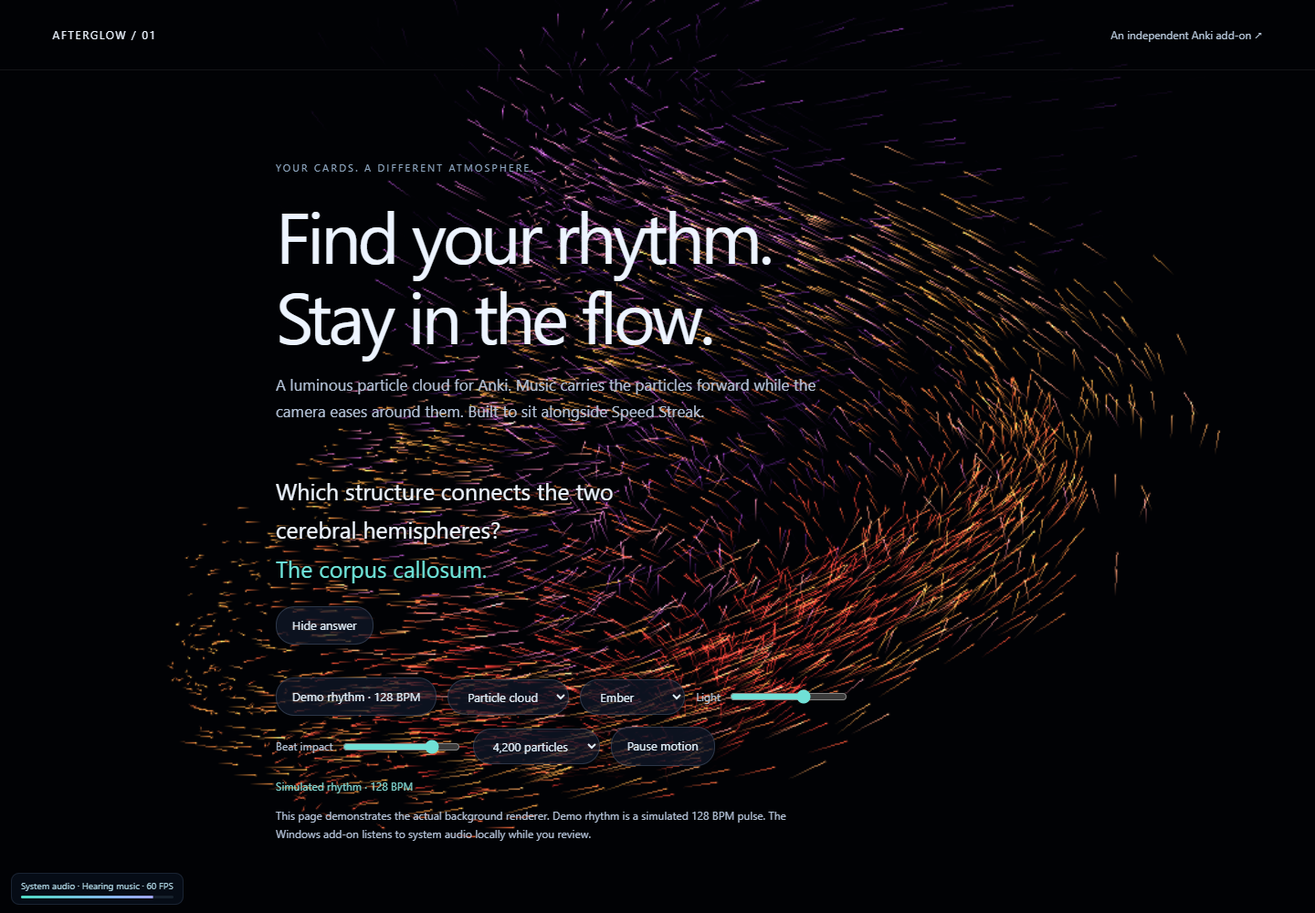
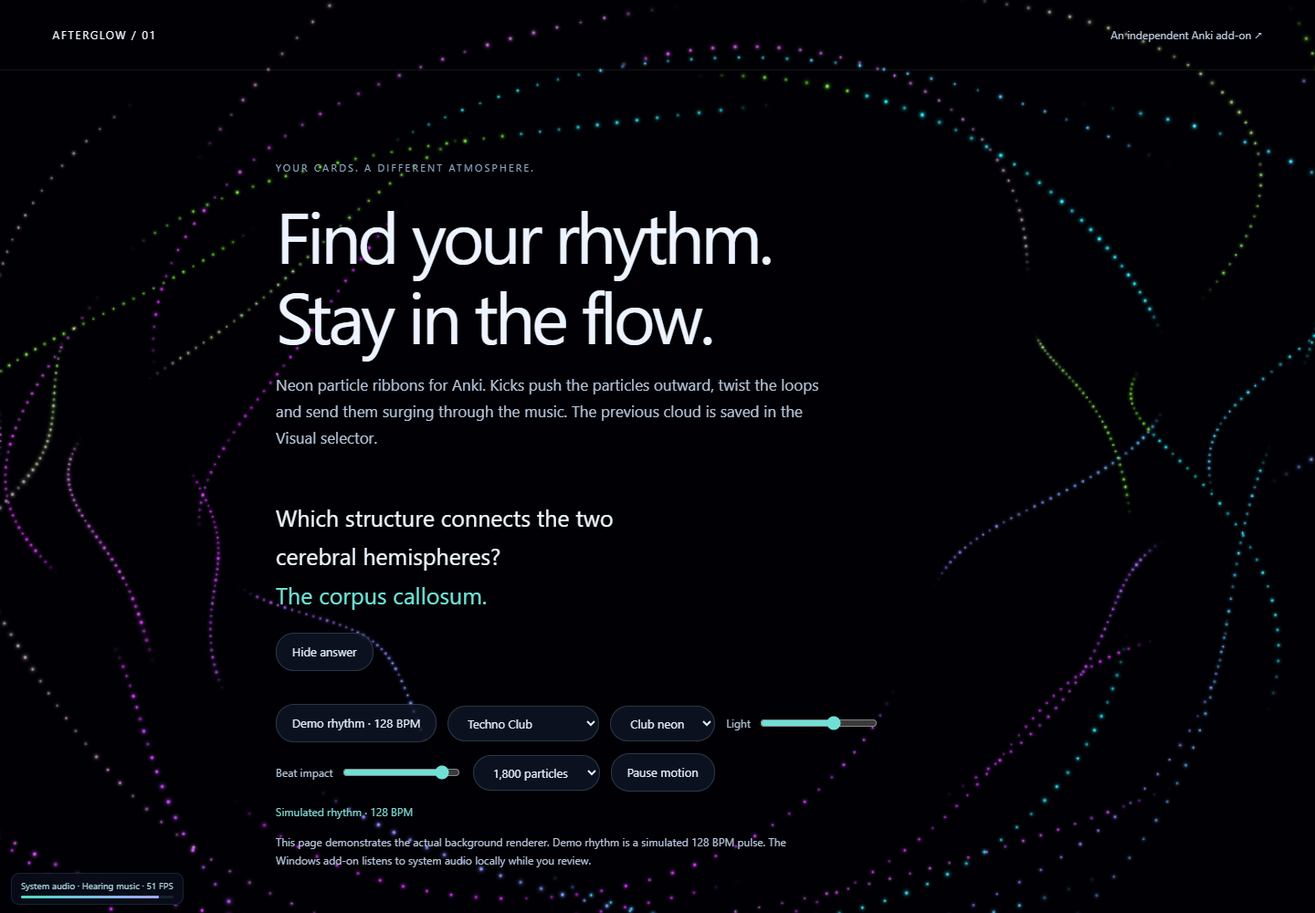
Add beat-driven Techno Club ribbons and preserve personal cloud preset

diff --git a/apps/anki-afterglow/web/club.js b/apps/anki-afterglow/web/club.js
@@ -1,0 +1,99 @@
+/* Original neon ribbon visual. One point-sprite draw, seeded geometry, no
+   textures or dependencies. The beat changes position as well as light. */
+(() => {
+  'use strict';
+  if(window.AfterglowClub)return;
+  const palettes={aurora:[[.05,.95,.85],[.45,.12,1.],[1.,.08,.6]],acid:[[.45,1.,.04],[.03,.9,.7],[1.,.25,.02]],ultraviolet:[[.12,.35,1.],[.6,.05,1.],[1.,.08,.65]],ember:[[1.,.12,.015],[1.,.65,.03],[.6,.05,1.]],neon:[[.02,.95,1.],[.85,.04,1.],[.4,1.,.04]]};
+  function seeds(count){
+    const data=new Float32Array(count*4);let seed=29173;
+    const random=()=>{seed=(Math.imul(seed,1664525)+1013904223)>>>0;return seed/4294967296;};
+    for(let i=0;i<count;i++)data.set([(i%240)/240,Math.floor(i/240),random(),random()],i*4);
+    return data;
+  }
+  const vertex=`precision highp float;
+attribute vec4 seed;
+uniform vec2 viewSize,worldSize,offset;
+uniform float time,beat,drive,density;uniform vec3 c0,c1,c2;
+varying mediump vec3 color;varying mediump float opacity;
+void main(){
+ float strand=seed.y,theta=seed.x*6.2831853;
+ float spin=time*.24+strand*.61;
+ float a=theta+spin;
+ float rip=sin(theta*3.+strand*1.4+time*.45);
+ float radius=.56+mod(strand,4.)*.15+.075*rip;
+ // Beats deform the ribbon and throw it outward, rather than just illuminating it.
+ float kick=beat*(.28+.17*(.5+.5*sin(theta*4.-strand*.8)));
+ radius+=kick;
+ a+=beat*.26*sin(theta*2.+strand);
+ vec3 p=vec3(cos(a)*radius,sin(a)*radius,
+   .50*sin(theta*2.+strand*.77+time*.25)+.14*(mod(strand,3.)-1.)+beat*.38);
+ p.xy+=vec2(.10*sin(time*.13+strand),.08*cos(time*.17+strand));
+ float depth=3.2-p.z,zoom=2.8/depth;
+ vec2 pixel=worldSize*.5+vec2(p.x*worldSize.x*.44,p.y*worldSize.y*.44)*zoom;
+ vec2 local=(pixel-offset)/viewSize;
+ gl_Position=vec4(local.x*2.-1.,1.-local.y*2.,0.,1.);
+ float hue=fract(seed.x+strand*.17+time*.018);
+ color=mix(c0,c1,smoothstep(0.,.5,hue));color=mix(color,c2,smoothstep(.5,1.,hue));
+ color=mix(color,vec3(.8,.94,1.),beat*.16);
+ // Gaps keep the ribbons airy, like beads in the supplied reference.
+ float gap=smoothstep(.10,.36,sin(theta*5.+strand+time*.3)*.5+.5);
+ opacity=gap*(.40+seed.w*.45)*(.6+drive*.25+beat*.75);
+ gl_PointSize=clamp((4.+seed.z*4.+beat*5.)*zoom*density,1.,17.);
+}`;
+  const fragment=`precision mediump float;
+uniform float intensity;varying mediump vec3 color;varying mediump float opacity;
+void main(){vec2 p=gl_PointCoord*2.-1.;float r=dot(p,p);if(r>1.)discard;
+ float core=exp(-r*16.),glow=pow(1.-r,2.)*.23;
+ gl_FragColor=vec4(color*(.85+core*.4),(core+glow)*opacity*intensity);
+}`;
+  function gpu(canvas,gl){
+    let program,buffer,count=0,loc={},alive=true,attribute;
+    function init(){
+      const compile=(type,source)=>{const s=gl.createShader(type);gl.shaderSource(s,source);gl.compileShader(s);if(!gl.getShaderParameter(s,gl.COMPILE_STATUS))throw Error(gl.getShaderInfoLog(s));return s;};
+      const vs=compile(gl.VERTEX_SHADER,vertex),fs=compile(gl.FRAGMENT_SHADER,fragment);
+      program=gl.createProgram();gl.attachShader(program,vs);gl.attachShader(program,fs);gl.linkProgram(program);gl.deleteShader(vs);gl.deleteShader(fs);
+      if(!gl.getProgramParameter(program,gl.LINK_STATUS))throw Error(gl.getProgramInfoLog(program));
+      for(const key of ['viewSize','worldSize','offset','time','beat','drive','density','intensity','c0','c1','c2'])loc[key]=gl.getUniformLocation(program,key);
+      attribute=gl.getAttribLocation(program,'seed');buffer=gl.createBuffer();count=0;alive=true;
+    }
+    init();const ext=gl.getExtension('WEBGL_debug_renderer_info');
+    canvas.addEventListener('webglcontextlost',e=>{e.preventDefault();alive=false;});
+    canvas.addEventListener('webglcontextrestored',()=>{try{init();}catch(_){alive=false;}});
+    return {canvas,kind:'webgl',get particles(){return count;},info:ext?gl.getParameter(ext.UNMASKED_RENDERER_WEBGL):'WebGL',dispose(){gl.getExtension('WEBGL_lose_context')?.loseContext();},draw(s){
+      if(!alive)return;
+      const desired=Math.round(Math.max(600,Math.min(s.quality?4200:1200,s.particleCount??1800)));
+      gl.useProgram(program);gl.bindBuffer(gl.ARRAY_BUFFER,buffer);
+      if(count!==desired){count=desired;gl.bufferData(gl.ARRAY_BUFFER,seeds(count),gl.STATIC_DRAW);}
+      gl.enableVertexAttribArray(attribute);gl.vertexAttribPointer(attribute,4,gl.FLOAT,false,16,0);
+      gl.viewport(0,0,canvas.width,canvas.height);gl.clearColor(.003,.004,.018,1);gl.clear(gl.COLOR_BUFFER_BIT);
+      gl.enable(gl.BLEND);gl.blendFunc(gl.SRC_ALPHA,gl.ONE);
+      gl.uniform2f(loc.viewSize,s.vw,s.vh);gl.uniform2f(loc.worldSize,s.w,s.h);gl.uniform2f(loc.offset,s.x,s.y);
+      gl.uniform1f(loc.time,s.clubTime??s.time);gl.uniform1f(loc.beat,Math.min(1,s.clubBeat??s.pulse??0));
+      gl.uniform1f(loc.drive,s.level||0);gl.uniform1f(loc.density,canvas.width/s.vw);gl.uniform1f(loc.intensity,s.intensity*1.4);
+      const colors=palettes[s.palette]||palettes.neon;for(let i=0;i<3;i++)gl.uniform3fv(loc['c'+i],colors[i]);
+      gl.drawArrays(gl.POINTS,0,count);
+    }};
+  }
+  function cpu(canvas){
+    const ctx=canvas.getContext('2d',{alpha:false});let count=0;
+    return {canvas,kind:'canvas',info:'Simplified neon ribbons',get particles(){return count;},draw(s){
+      const sx=canvas.width/s.vw,sy=canvas.height/s.vh,t=s.clubTime??s.time,k=Math.min(1,s.clubBeat??s.pulse??0),colors=palettes[s.palette]||palettes.neon;
+      count=Math.min(650,Math.max(200,Math.round((s.particleCount??1800)/4)));
+      ctx.setTransform(sx,0,0,sy,-s.x*sx,-s.y*sy);ctx.fillStyle='#010105';ctx.fillRect(0,0,s.w,s.h);ctx.globalCompositeOperation='screen';
+      for(let i=0;i<count;i++){
+        const strand=Math.floor(i/90),theta=(i%90)/90*Math.PI*2,a=theta+t*.24+strand*.61+k*.26*Math.sin(theta*2+strand);
+        const radius=.56+(strand%4)*.15+.075*Math.sin(theta*3+strand*1.4+t*.45)+k*(.28+.17*(.5+.5*Math.sin(theta*4-strand*.8)));
+        const zoom=2.8/(3.2-.5*Math.sin(theta*2+strand*.77+t*.25)-k*.38);
+        const color=colors[Math.floor((i/90+t*.018)%3)];ctx.fillStyle=`rgb(${color.map(v=>Math.round(v*255)).join(',')})`;
+        ctx.globalAlpha=Math.min(1,s.intensity*(.35+k*.65))*Math.max(0,Math.sin(theta*5+strand+t*.3)*.5+.5);
+        ctx.beginPath();ctx.arc(s.w*.5+Math.cos(a)*radius*s.w*.44*zoom,s.h*.5+Math.sin(a)*radius*s.h*.44*zoom,(2+k*2)*zoom,0,Math.PI*2);ctx.fill();
+      }
+      ctx.globalAlpha=1;ctx.globalCompositeOperation='source-over';
+    }};
+  }
+  window.AfterglowClub=canvas=>{
+    try{const gl=canvas.getContext('webgl',{alpha:false,depth:false,stencil:false,antialias:false,preserveDrawingBuffer:false,powerPreference:'high-performance'});if(gl)return gpu(canvas,gl);}
+    catch(e){console.warn('Afterglow club fallback:',String(e));const next=canvas.cloneNode();canvas.replaceWith(next);canvas=next;}
+    return cpu(canvas);
+  };
+})();

diff --git a/apps/anki-afterglow/index.html b/apps/anki-afterglow/index.html
@@ -3,13 +3,13 @@
 <link rel="stylesheet" href="web/afterglow.css"><style>
 *{box-sizing:border-box}body{margin:0;color:#edf4ff;font:17px/1.7 system-ui,sans-serif}header{display:flex;justify-content:space-between;align-items:center;padding:28px 4vw;border-bottom:1px solid #ffffff12;font-size:12px;letter-spacing:.14em}header a{color:#b9cadc;text-decoration:none;letter-spacing:0}main{max-width:900px;margin:9vh auto;padding:0 32px}small{font-size:11px;letter-spacing:.2em;color:#8fa8c2}h1{font-size:clamp(40px,6vw,78px);font-weight:400;line-height:1.12;letter-spacing:-.05em;margin:18px 0}p{max-width:610px;color:#b5c4d9}#qa{padding:35px 0 20px;font-size:25px;line-height:1.7;max-width:700px}.cloze{color:#6fe5db}button,select,input{accent-color:#70e0d6}button,select{background:#101729b8;color:#dfedf7;border:1px solid #a9c9ed33;border-radius:20px;padding:9px 17px;font:inherit;font-size:13px;cursor:pointer}button:hover{border-color:#86eee3}nav{display:flex;gap:12px;align-items:center;flex-wrap:wrap;margin-top:36px}label{display:flex;gap:8px;align-items:center;font-size:12px;color:#b0c2d5}footer{margin:9vh 4vw 30px;font-size:12px;color:#8ba2bd;display:flex;justify-content:space-between;gap:20px}a{color:#8ce1dc}#answer{display:none}#status{font-size:12px;color:#80d7d1}.note{font-size:12px;max-width:600px}
 </style></head><body><header><span>AFTERGLOW / 01</span><a href="https://github.com/starfox1230/The-Library/tree/main/apps/anki-afterglow">An independent Anki add-on ↗</a></header>
-<main><small>YOUR CARDS. A DIFFERENT ATMOSPHERE.</small><h1>Find your rhythm.<br>Stay in the flow.</h1><p>A luminous particle cloud for Anki. Music carries the particles forward while the camera eases around them. Built to sit alongside Speed Streak.</p>
+<main><small>YOUR CARDS. A DIFFERENT ATMOSPHERE.</small><h1>Find your rhythm.<br>Stay in the flow.</h1><p>Neon particle ribbons for Anki. Kicks push the particles outward, twist the loops and send them surging through the music. The previous cloud is saved in the Visual selector.</p>
 <div id="qa"><div>Which structure connects the two<br>cerebral hemispheres?</div><div id="answer"><span class="cloze">The corpus callosum.</span></div></div>
 <button id="reveal">Reveal answer</button>
-<nav><button id="beat">Demo rhythm · Off</button><select id="visual" aria-label="Visual"><option value="particles">Particle cloud</option><option value="liquid">Liquid wall</option></select><select id="palette" aria-label="Palette"><option value="aurora">Aurora</option><option value="acid">Acid</option><option value="ultraviolet">Ultraviolet</option><option value="ember">Ember</option></select><label>Light <input id="light" type="range" min="0" max="100" value="65"></label><label>Beat impact <input id="impact" type="range" min="0" max="100" value="80"></label><select id="particles" aria-label="Particle count"><option value="1800">1,800 particles</option><option value="4200" selected>4,200 particles</option><option value="7000">7,000 particles</option></select><button id="motion">Pause motion</button></nav><p id="status">Ambient preview · no audio capture in this browser</p><p class="note">This page demonstrates the actual background renderer. Demo rhythm is a simulated 128 BPM pulse. The Windows add-on listens to system audio locally while you review.</p></main>
+<nav><button id="beat">Demo rhythm · Off</button><select id="visual" aria-label="Visual"><option value="club">Techno Club</option><option value="particles">Particle cloud · v0.5</option><option value="liquid">Liquid wall</option></select><select id="palette" aria-label="Palette"><option value="neon">Club neon</option><option value="aurora">Aurora</option><option value="acid">Acid</option><option value="ultraviolet">Ultraviolet</option><option value="ember">Ember</option></select><label>Light <input id="light" type="range" min="0" max="100" value="65"></label><label>Beat impact <input id="impact" type="range" min="0" max="100" value="90"></label><select id="particles" aria-label="Particle count"><option value="1800" selected>1,800 particles</option><option value="4200">4,200 particles</option><option value="7000">7,000 particles</option></select><button id="motion">Pause motion</button></nav><p id="status">Ambient preview · no audio capture in this browser</p><p class="note">This page demonstrates the actual background renderer. Demo rhythm is a simulated 128 BPM pulse. The Windows add-on listens to system audio locally while you review.</p></main>
 <footer><span>Local audio. Floating text. Room to focus.</span><a href="README.md">Installation & details ↗</a></footer>
-<script src="web/liquid.js"></script><script src="web/particles.js"></script><script src="web/afterglow.js"></script><script>
-let cfg={enabled:true,intensity:65,motion:55,contrast:70,quality:1,palette:'aurora',clear_backgrounds:true},demo=false;
+<script src="web/liquid.js"></script><script src="web/particles.js"></script><script src="web/club.js"></script><script src="web/afterglow.js"></script><script>
+let cfg={enabled:true,intensity:65,motion:55,contrast:70,quality:1,palette:'neon',impact:90,particle_count:1800,visual:'club',clear_backgrounds:true},demo=false;
 const origin=performance.now()/1000,period=60/128;
 const previewLoop=setInterval(()=>{const t=performance.now()/1000-origin;Afterglow.update({config:cfg,energy:demo?.035+.025*Math.exp(-(((t%period)/.07)**2)):0,bass:demo?.04:0,hit_id:demo?Math.floor(t/period)+1:0,confidence:demo?1:0,period:demo?period:0,next_in:period-t%period});},33);
 document.getElementById('beat').onclick=e=>{demo=!demo;e.target.textContent='Demo rhythm · '+(demo?'128 BPM':'Off');document.getElementById('status').textContent=demo?'Simulated rhythm · 128 BPM':'Ambient preview · no audio capture in this browser';};

diff --git a/apps/anki-afterglow/standalone.html b/apps/anki-afterglow/standalone.html
@@ -1,8 +1,8 @@
 <!doctype html><html><head><meta charset="utf-8"><meta name="viewport" content="width=device-width,initial-scale=1"><title>Afterglow · Standalone comparison</title><link rel="stylesheet" href="web/afterglow.css"><style>
 body{margin:0;color:#dfedff;font:12px system-ui}#controls{position:fixed;right:15px;top:15px;padding:14px;background:#070c1cd9;border:1px solid #60708755;border-radius:12px;max-width:350px}p{color:#9db2c8;line-height:1.6}button,select{background:#192338;color:#e2f0ff;border:1px solid #657d9855;border-radius:7px;padding:7px;margin-right:5px;cursor:pointer}#performance{white-space:pre-line;font-variant-numeric:tabular-nums}
-</style></head><body><section id="controls"><b>AFTERGLOW · STANDALONE</b><p>Real system audio, rendered outside Anki. Compare the motion and frame rate while Anki is also open.</p><select id="visual"><option value="particles">Particle cloud</option><option value="liquid">Liquid wall</option></select><select id="quality"><option value="1">Smooth</option><option value="0">Economy</option></select><p id="performance">Starting audio…</p><button id="fullscreen">Fullscreen</button><button id="hide">Hide controls (H)</button><button id="stop">Stop</button></section>
-<script src="web/liquid.js"></script><script src="web/particles.js"></script><script src="web/afterglow.js"></script><script>
-const config={enabled:true,motion:55,intensity:80,contrast:70,quality:1,palette:'ember',impact:65,show_meter:true,visual:'particles'};let stopped=false;
+</style></head><body><section id="controls"><b>AFTERGLOW · STANDALONE</b><p>Real system audio, rendered outside Anki. Compare the motion and frame rate while Anki is also open.</p><select id="visual"><option value="club">Techno Club</option><option value="particles">Particle cloud · v0.5</option><option value="liquid">Liquid wall</option></select><select id="quality"><option value="1">Smooth</option><option value="0">Economy</option></select><p id="performance">Starting audio…</p><button id="fullscreen">Fullscreen</button><button id="hide">Hide controls (H)</button><button id="stop">Stop</button></section>
+<script src="web/liquid.js"></script><script src="web/particles.js"></script><script src="web/club.js"></script><script src="web/afterglow.js"></script><script>
+const config={enabled:true,motion:55,intensity:80,contrast:70,quality:1,palette:'neon',impact:90,particle_count:1800,show_meter:true,visual:'club'};let stopped=false;
 async function poll(){if(stopped)return;try{const response=await fetch('/state');if(!response.ok)throw Error('Audio service unavailable');const state=await response.json();Afterglow.update({...state,config,primary:true});const m=Afterglow.metrics();document.getElementById('performance').textContent=Math.round(m.fps)+' FPS · p95 '+m.p95_ms.toFixed(1)+' ms\n'+m.device+'\n'+(state.device||state.status);}catch(e){document.getElementById('performance').textContent=e.message;}setTimeout(poll,40);}poll();
 document.getElementById('visual').onchange=e=>config.visual=e.target.value;
 document.getElementById('quality').onchange=e=>config.quality=+e.target.value;

diff --git a/apps/anki-afterglow/web/afterglow.js b/apps/anki-afterglow/web/afterglow.js
@@ -13,7 +13,7 @@
   let dirty = true, configKey = '';
   let surface=null, received=0, lastHit=0, attack=0, previousBass=0, lastAttack=-1000;
   let hud, meter, caption, meterTick=0;
-  let camera=0,clocks=Array(8).fill(0),clockMotion=55;
+  let camera=0,clocks=Array(8).fill(0),clockMotion=55,clubTime=0,clubBeat=0;
   const timings=[];let drawCost=0,drawCount=0,lastScene=null;
   // Synchronous readback is only for QA; normal frames use disposable GPU buffers.
   function paint(){if(visual&&lastScene&&!decorationOnly)visual.draw(lastScene);}
@@ -97,12 +97,16 @@
       clocks=state.particle_phases?state.particle_phases.map((p,i)=>{const target=(p+age*(state.particle_rates?.[i]??.1))*config.motion/55;return resync?target:Math.max(clocks[i],target);}):clocks.map((p,i)=>p+dt*(.1+musicLevel*.65+pulse*(i<3?1.8:.85))*config.motion/55);
       if(state.camera_phase!==undefined){const target=(state.camera_phase+age*(state.camera_rate||0))*config.motion/55;camera=resync?target:Math.max(camera,target);}
       else camera+=dt*(.025+pulse*.30)*config.motion/55;
+      const clubTarget=Math.min(1,pulse*1.4);
+      clubBeat+=(clubTarget-clubBeat)*(1-Math.exp(-dt*(clubTarget>clubBeat?35:9)));
+      if(state.club_time!==undefined){const target=(state.club_time+age*(state.club_rate||0))*config.motion/55;clubTime=resync?target:Math.max(clubTime,target);}
+      else clubTime+=dt*(.12+musicLevel*.5+clubBeat*3.8)*config.motion/55;
     }
     lastScene={w:surface?.width||innerWidth,h:surface?.height||innerHeight,
       vw:surface?.view_width||innerWidth,vh:surface?.view_height||innerHeight,
       x:surface?.x||0,y:surface?.y||0,time,intensity:config.intensity/100,
       palette:config.palette,level:moving?musicLevel:0,bass:moving?musicBass*config.impact/100:0,
-      pulse:moving?pulse:0,quality:config.quality,particleCount:config.particle_count??4200,clocks,camera};
+      pulse:moving?pulse:0,clubBeat:moving?clubBeat:0,clubTime,quality:config.quality,particleCount:config.particle_count??4200,clocks,camera};
     visual.draw(lastScene);
     timings.push(ms);if(timings.length>120)timings.shift();drawCost+=performance.now()-started;drawCount++;
     if(moving)raf=requestAnimationFrame(frame);
@@ -127,8 +131,8 @@
         visual?.dispose?.();visual=null;
         cancelAnimationFrame(raf);raf=0;
         const next=canvas.cloneNode();canvas.replaceWith(next);canvas=next;
-        currentVisual=config.visual==='liquid'?'liquid':'particles';
-        if(!decorationOnly){visual=(currentVisual==='liquid'?window.AfterglowLiquid:window.AfterglowParticles)(canvas);canvas=visual.canvas;}
+        currentVisual=['liquid','club'].includes(config.visual)?config.visual:'particles';
+        if(!decorationOnly){visual=({liquid:window.AfterglowLiquid,club:window.AfterglowClub,particles:window.AfterglowParticles}[currentVisual])(canvas);canvas=visual.canvas;}
         mount();resize();
         timings.length=0;drawCost=drawCount=0;
       }

diff --git a/apps/anki-afterglow/__init__.py b/apps/anki-afterglow/__init__.py
@@ -53,7 +53,7 @@ class Afterglow:
         self.decoration_updates = {}
         self.decorated = []
         css = (ROOT / 'web/afterglow.css').read_text(encoding='utf-8')
-        js = '\n'.join((ROOT / ('web/'+name)).read_text(encoding='utf-8') for name in ('liquid.js','particles.js','afterglow.js'))
+        js = '\n'.join((ROOT / ('web/'+name)).read_text(encoding='utf-8') for name in ('liquid.js','particles.js','club.js','afterglow.js'))
         self.inject_script = '(function(){if(window.Afterglow)return;const s=document.createElement("style");s.textContent=' + json.dumps(css) + ';document.head.append(s);' + js + '})();'
         self.action = QAction("Afterglow — Music background…", mw)
         self.action.triggered.connect(self.settings)
@@ -96,6 +96,7 @@ class Afterglow:
             content.css.append(base + "/afterglow.css")
             content.js.append(base + "/liquid.js")
             content.js.append(base + "/particles.js")
+            content.js.append(base + "/club.js")
             content.js.append(base + "/afterglow.js")
 
     def fullscreen(self):
@@ -301,17 +302,21 @@ class Afterglow:
             slider.valueChanged.connect(lambda value, k=key, l=value_label, title=label: (l.setText(f"{title}: {value}"), save(k, value)))
             form.addRow(value_label, slider)
         palette = QComboBox()
-        for title, value in [("Aurora · cyan / violet / rose", "aurora"), ("Acid · lime / teal / amber", "acid"), ("Ultraviolet · purple / blue / pink", "ultraviolet"), ('Ember · coral / gold / violet','ember')]:
+        for title, value in [("Club neon · cyan / magenta / lime", "neon"),("Aurora · cyan / violet / rose", "aurora"), ("Acid · lime / teal / amber", "acid"), ("Ultraviolet · purple / blue / pink", "ultraviolet"), ('Ember · coral / gold / violet','ember')]:
             palette.addItem(title, value)
         palette.setCurrentIndex(max(0, palette.findData(self.config["palette"])))
         palette.currentIndexChanged.connect(lambda _: save("palette", palette.currentData()))
         form.addRow("Palette", palette)
         visual=QComboBox()
+        visual.addItem('Techno Club · beat-driven neon ribbons','club')
         visual.addItem('Particle cloud','particles')
         visual.addItem('Liquid wall','liquid')
         visual.setCurrentIndex(max(0,visual.findData(self.config['visual'])))
         visual.currentIndexChanged.connect(lambda _:save('visual',visual.currentData()))
         form.addRow('Visual',visual)
+        restore=QPushButton('Restore saved v0.5 Particle Cloud look')
+        restore.clicked.connect(lambda: (self.restore_cloud(),dialog.accept()))
+        form.addRow(restore)
         quality = QComboBox()
         quality.addItems(["Economy · 30 FPS", "Smooth · display refresh rate"])
         quality.setCurrentIndex(int(self.config["quality"]))
@@ -337,6 +342,16 @@ class Afterglow:
         dialog.exec()
         self.status_label = None
         self.meter = None
+
+    def restore_cloud(self):
+        saved=ROOT/'user_files/particle-cloud-v0.5.json'
+        if not saved.exists():saved=ROOT/'cloud-v0.5.json'
+        values=json.loads(saved.read_text(encoding='utf-8-sig'))
+        for key in ('intensity','motion','contrast','quality','palette','impact','particle_count'):
+            if key in values:self.config[key]=values[key]
+        self.config['visual']='particles'
+        mw.addonManager.writeConfig(__name__,self.config)
+        self.tick()
 
 
 controller = Afterglow()

diff --git a/apps/anki-afterglow/tests/qt_perf.py b/apps/anki-afterglow/tests/qt_perf.py
@@ -13,7 +13,7 @@ app=QApplication(['afterglow-performance-test'])
 window=QMainWindow();window.setAttribute(Qt.WidgetAttribute.WA_DontShowOnScreen,True)
 host=QWidget();layout=QVBoxLayout(host);layout.setContentsMargins(0,0,0,0);layout.setSpacing(0);window.setCentralWidget(host)
 root=Path(__file__).parents[1]
-script='\n'.join((root/('web/'+name)).read_text() for name in ('liquid.js','particles.js','afterglow.js'))
+script='\n'.join((root/('web/'+name)).read_text() for name in ('liquid.js','particles.js','club.js','afterglow.js'))
 html='<html><body style="margin:0"><script>'+script+'</script></body></html>'
 shared='--shared' in sys.argv
 views=[];profiles=[]
@@ -33,9 +33,11 @@ def update():
     t=time.monotonic()-start
     for view in views+([backdrop] if shared else []):
         pos=view.mapTo(host,view.rect().topLeft())
-        data={'config':{'enabled':True,'visual':'particles','motion':55,'quality':1,'intensity':80,'show_meter':False},
+        data={'config':{'enabled':True,'visual':'club' if '--club' in sys.argv else 'particles','particle_count':1800 if '--club' in sys.argv else 4200,'motion':55,'quality':1,'intensity':80,'show_meter':False},
               'flow_time':t*.6,'flow_rate':.6,'particle_phases':[t*(.2+i*.06) for i in range(8)],'particle_rates':[.2+i*.06 for i in range(8)],
               'camera_phase':t*.06,'camera_rate':.06,'music_level':.6,'energy':.03,'bass':.02,'decoration_only':shared and view is not backdrop,
+              'hit_id':int(t*2)+1 if '--club' in sys.argv else 0,
+              'period':.5 if '--club' in sys.argv else 0,'confidence':1,'next_in':.5-t%.5,
               'surface':{'x':pos.x(),'y':pos.y(),'width':host.width(),'height':host.height(),'view_width':view.width(),'view_height':view.height(),'dpr':view.devicePixelRatioF()}}
         view.page().runJavaScript('window.Afterglow&&Afterglow.update('+json.dumps(data)+')')
 timer=QTimer();timer.setInterval(33);timer.timeout.connect(update);timer.start()

diff --git a/apps/anki-afterglow/tests/qt_zoom.py b/apps/anki-afterglow/tests/qt_zoom.py
@@ -3,6 +3,7 @@ import os
 os.environ['QTWEBENGINE_CHROMIUM_FLAGS'] = '--disable-gpu'
 import json
 import time
+import sys
 from pathlib import Path
 from aqt.qt import QApplication, QEventLoop, QTimer, Qt
 from PyQt6.QtWebEngineWidgets import QWebEngineView
@@ -18,7 +19,7 @@ view.resize(1000,900)
 view.show()
 print('Qt WebEngine initialized',flush=True)
 root=Path(__file__).parents[1]
-html='<html><head><style>body{margin:0;color:white}#qa{font:24px sans-serif;display:inline-block}</style><style>'+ (root/'web/afterglow.css').read_text()+'</style></head><body><div id="qa">Zoom this card text</div><script>'+'\n'.join((root/('web/'+name)).read_text() for name in ('liquid.js','particles.js','afterglow.js'))+'</script></body></html>'
+html='<html><head><style>body{margin:0;color:white}#qa{font:24px sans-serif;display:inline-block}</style><style>'+ (root/'web/afterglow.css').read_text()+'</style></head><body><div id="qa">Zoom this card text</div><script>'+'\n'.join((root/('web/'+name)).read_text() for name in ('liquid.js','particles.js','club.js','afterglow.js'))+'</script></body></html>'
 
 def wait(seconds=.2):
     end=time.monotonic()+seconds
@@ -35,7 +36,7 @@ def js(code):
     return result[0]
 
 def paint(y=0,dpr=None):
-    data={'config':{'enabled':True,'motion':0,'intensity':65,'immersive':True},
+    data={'config':{'enabled':True,'visual':'club' if '--club' in sys.argv else 'particles','motion':0,'intensity':65,'immersive':True},
           'surface':{'x':0,'y':y,'width':1000,'height':900,'view_width':view.width(),
                      'view_height':view.height(),'dpr':view.devicePixelRatioF() if dpr is None else dpr},
           'primary':True,'scene_time':0}

diff --git a/apps/anki-afterglow/motion.py b/apps/anki-afterglow/motion.py
@@ -12,6 +12,7 @@ class MusicMotion:
         self.band_levels = [0.0]*8
         self.band_phases = [0.0]*8
         self.band_rates = [.1]*8
+        self.club_phase = 0.0
 
     def feed(self, now, sound, impact=.8):
         impact=min(1,max(0,impact))
@@ -32,6 +33,8 @@ class MusicMotion:
         # A calm drift in silence, with actual sound accelerating and folding it.
         rate = .10 + self.level*.48 + self.bass*.22 + self.push*.16
         self.phase += dt*rate
+        club_rate=.12+self.level*.5+self.push*impact*3.8
+        self.club_phase+=dt*club_rate
         self.camera_goal += dt*.025
         self.camera += (self.camera_goal-self.camera)*(1-math.exp(-dt*2.4))
         bands=sound.get('bands') or [energy]*8
@@ -42,7 +45,7 @@ class MusicMotion:
             # Kicks accelerate forward travel. Decaying sound never rewinds it.
             self.band_rates[i]=.10+self.band_levels[i]*.65+self.push*impact*(1.8 if i<3 else .85)
             self.band_phases[i]+=dt*self.band_rates[i]
-        return dict(flow_time=self.phase, flow_rate=rate, music_level=self.level,
+        return dict(flow_time=self.phase, flow_rate=rate, club_time=self.club_phase,club_rate=club_rate,music_level=self.level,
                     music_bass=self.bass, music_push=self.push,
                     particle_phases=list(self.band_phases),particle_rates=list(self.band_rates),
                     camera_phase=self.camera,camera_rate=(self.camera_goal-self.camera)*2.4)

diff --git a/apps/anki-afterglow/tests/qt_smoke.py b/apps/anki-afterglow/tests/qt_smoke.py
@@ -77,6 +77,10 @@ with tempfile.TemporaryDirectory() as directory:
     assert report['panes'][0]['metrics']['fps']==60
     assert report['geometry'][0]['zoom']==1.25
     assert 'card' not in report
+    (module.ROOT/'user_files/particle-cloud-v0.5.json').write_text(json.dumps({'palette':'ultraviolet','particle_count':4200,'motion':55,'impact':80}))
+    c.restore_cloud()
+    assert c.config['visual']=='particles' and c.config['palette']=='ultraviolet'
+    assert c.config['particle_count']==4200 and c.config['impact']==80
     module.ROOT=original_root
 c.close()
 print('PASS: Anki libraries, menu, settings dialog, audio start/stop, reviewer bridge')

diff --git a/apps/anki-afterglow/standalone.py b/apps/anki-afterglow/standalone.py
@@ -42,6 +42,7 @@ def main():
                 files={'/':ROOT/'standalone.html','/standalone.html':ROOT/'standalone.html',
                        '/web/afterglow.js':ROOT/'web/afterglow.js','/web/liquid.js':ROOT/'web/liquid.js',
                        '/web/particles.js':ROOT/'web/particles.js','/web/afterglow.css':ROOT/'web/afterglow.css'}
+                files['/web/club.js']=ROOT/'web/club.js'
                 target=files.get(path)
                 if not target:self.send_error(404);return
                 data=target.read_bytes();mime='text/html' if target.suffix=='.html' else 'text/css' if target.suffix=='.css' else 'text/javascript'

diff --git a/apps/anki-afterglow/README.md b/apps/anki-afterglow/README.md
@@ -1,4 +1,12 @@
-# Afterglow 0.5 — personal Windows preview
+# Afterglow 0.6 — personal Windows preview
+
+## Techno Club and the saved cloud
+
+**Techno Club** is a separate new visual inspired by the loose, bright particle loops in [this supplied reference](https://www.youtube.com/shorts/eeYaC-pY_bo). Neon cyan/magenta/lime beads form broken, rippling ribbons. Kicks push their positions outward, twist the loops and bring them toward the viewer; a smooth envelope releases between beats. A shared forward clock adds a burst of travel on detected attacks. This is an original visual, not the video's code or assets. It uses one GPU point-sprite draw and 1,800 particles by default, with a simpler Canvas fallback.
+
+The **v0.5 Particle Cloud remains available** in the Visual selector. Its renderer and motion behavior are preserved; its exact source is also in Git commit `805eed3`. Before replacement, the PowerShell installer saves the user's previous configuration to local `user_files/particle-cloud-v0.5.json` once. **Tools → Afterglow → Restore saved v0.5 Particle Cloud look** restores its palette, density, brightness, motion, impact and halo settings. The generic `cloud-v0.5.json` is the fallback for fresh installs. Reinstalling does not overwrite that saved look.
+
+The default Techno Club density is 1,800, capped at 4,200 in Smooth or 1,200 in Economy. The density control is shared with the other visuals. Existing card text, buttons, zoom anchoring and the shared background layer are retained. Isolated Qt WebEngine with a simulated beat reached about 60 FPS; full live Anki performance and subjective musical feel are not established by that benchmark.
 
 A separate Anki desktop add-on: a full-window audio-reactive particle cloud with individual letter halos. The new mode is an original approximation of the principles in Bileam Tschepe's [Audioreactive Particle Cloud (new)](https://www.elekktronaut.com/tutorials/audioreactive-particle-cloud-new): age-colored line particles, audio-driven speed and lagged camera motion. It does not load the creator's project or require TouchDesigner. Plays alongside Speed Streak without importing it, patching its code, or accessing its timers. Works without Speed Streak too. Does not change saved card fields, scheduling, answer keys, or music playback.
 

diff --git a/apps/anki-afterglow/VALIDATION.md b/apps/anki-afterglow/VALIDATION.md
@@ -2,6 +2,13 @@
 
 Passed on Sterling's Windows machine:
 
+## 0.6 Techno Club and cloud preservation
+
+- Viewed the supplied YouTube Short in the browser: bright rounded particles in broken, rippling loops. Built an original neon ribbon renderer with large kick-driven radial/tangential/depth displacement, glow and a forward travel burst. The reference video was not downloaded or bundled.
+- One batched point-sprite draw, default 1,800 particles. GPU pixel test held time fixed and found only about 3.6% of lit interbeat pixels still occupied on the kick, establishing actual spatial movement rather than just more light. Canvas fallback: about 1% retained. Both paths pass pause, reduced motion and disable checks; screenshots inspected for geometry and readable card text.
+- Isolated shared-layer Qt WebEngine with a simulated beat at 1920×1080: approximately 60 FPS, p95 16.8 ms, Intel Arc / ANGLE / Direct3D11; all three decorators draw zero animation frames. The 75–250% zoom and independently zoomed answer-bar alignment test passes for the club renderer's software fallback. This is not a new live review/Speed Streak frame-rate measurement.
+- The v0.5 cloud shader is unchanged and the original motion fields retain their formulas. Added independent club clock fields. Existing cloud browser and twelve beat/motion tests pass. Anki smoke test covers restoring a saved cloud profile. Installer saves prior preferences once and preserves them on subsequent replacements; generic defaults are packaged as fallback.
+
 ## 0.5 stronger beat response and lighter cloud
 
 - Fixed the weak particle response: the shader now consumes the beat pulse for particle brightness, trail length, point size and color accent. Detected kicks also boost forward band clocks and advance a lagged camera target more strongly. The impact control scales the native kick travel/camera response and the visual pulse. No full-screen background flash or whole-cloud amplitude scaling is added.
